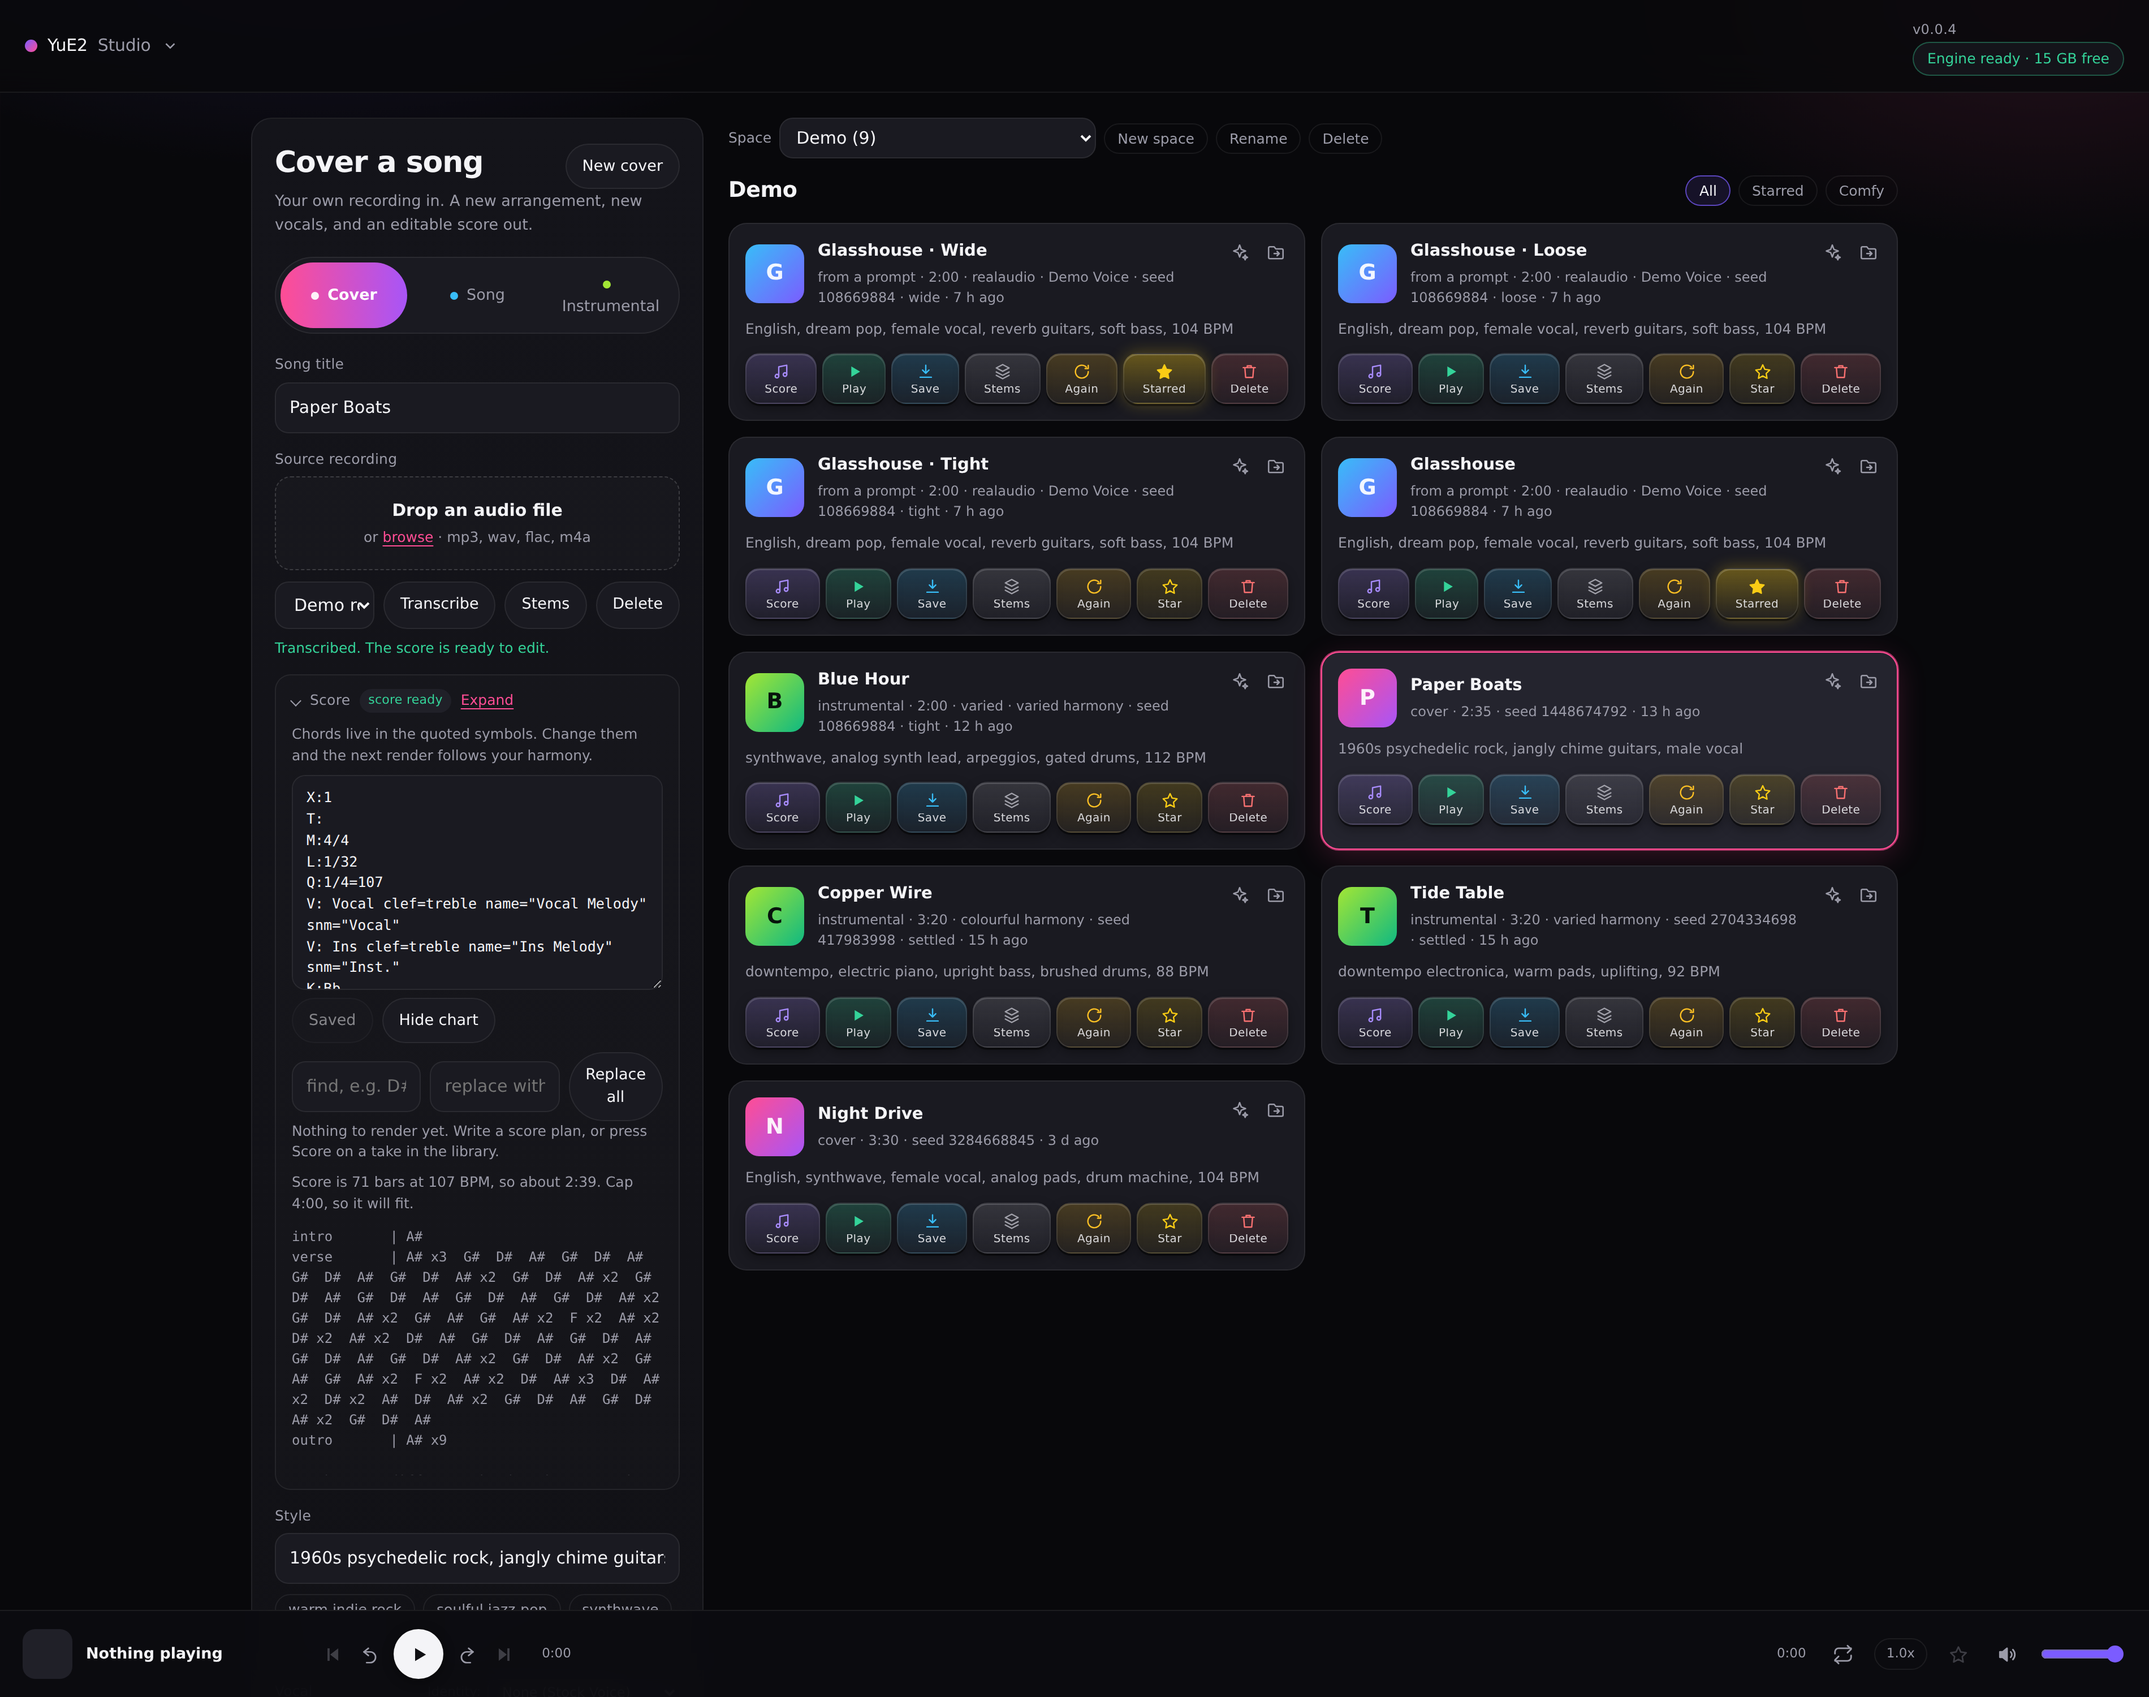
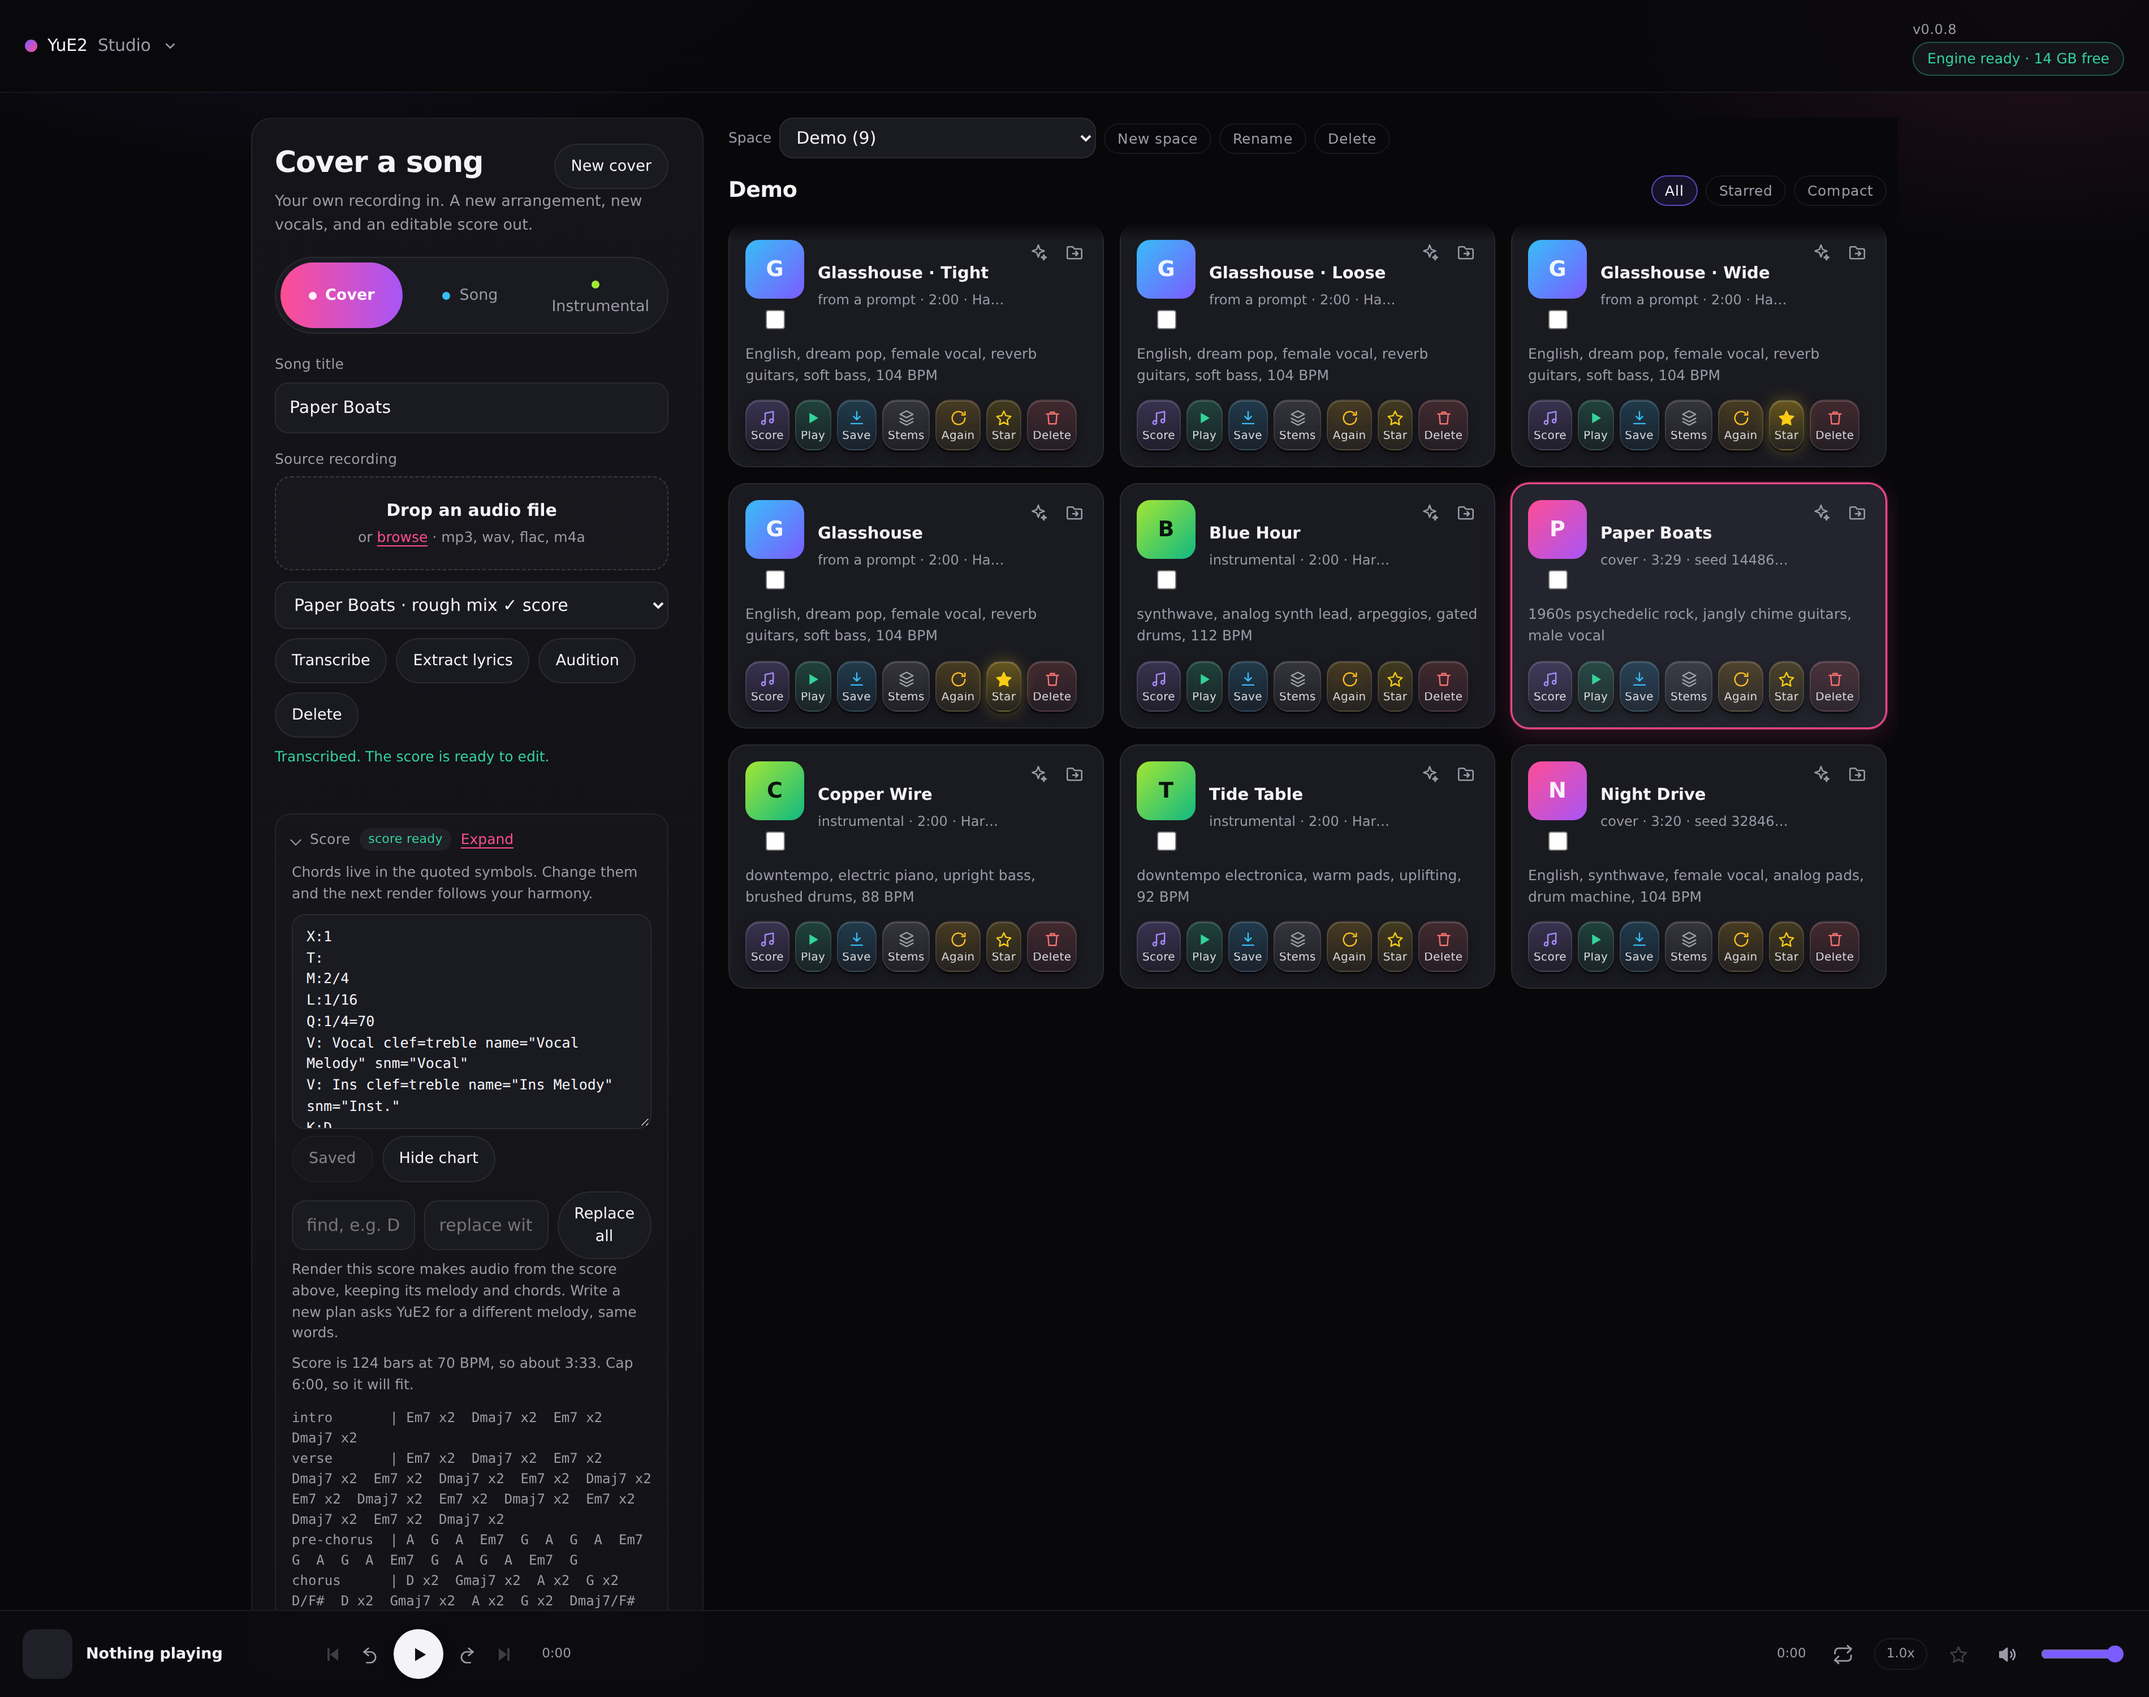
Screenshots refreshed at 0.0.8
The library pane, the pick boxes, Extract lyrics and Audition, and the
Identity picker all arrived after the last set was taken. Compact cards
are now what a new install shows, so the shots are in that layout and the
wider one is the alternative rather than the other way round.

Style LoRA is a new shot; the render running in the old cover shot is not
claimed any more, because nothing was rendering.

diff --git a/README.md b/README.md
@@ -13,13 +13,14 @@ Everything runs in two containers on one machine. No cloud, no API keys, no acco
 
 ## What it looks like
 
-Covering a recording, with the score editor open and a render running:
+Covering a recording, with the score editor open:
 
 [![Cover a recording](docs/screenshots/cover-a-recording.png)](https://raw.githubusercontent.com/dynamohum/YuE2gen-studio/master/docs/screenshots/full/cover-a-recording.png)
 
-The same library in the compact layout:
+The same library in comfy cards, which trade a column for the whole prompt and every setting
+a take was made with. Compact, three across, is what you start with:
 
-[![Compact layout](docs/screenshots/compact-layout.png)](https://raw.githubusercontent.com/dynamohum/YuE2gen-studio/master/docs/screenshots/full/compact-layout.png)
+[![Comfy layout](docs/screenshots/comfy-layout.png)](https://raw.githubusercontent.com/dynamohum/YuE2gen-studio/master/docs/screenshots/full/comfy-layout.png)
 
 Writing a song from a prompt:
 
